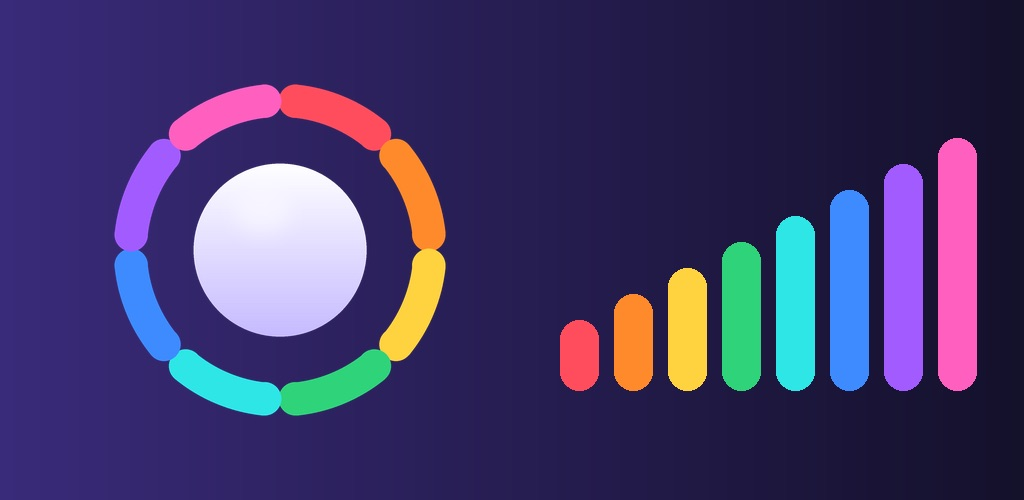
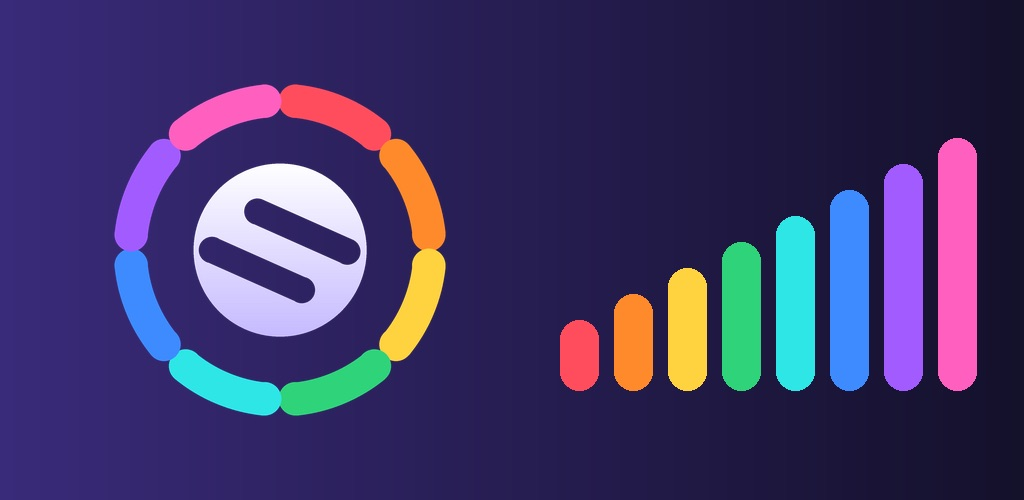
Put the rush streaks in the site's mark
The icon's centre was a plain disc that said nothing. It now carries two
speed streaks, cut out so the background shows through — the same mark the
launcher icon and the in-game logo use, from mark_path_data() in
tool/generate_icons.py.

Screenshots and the share image are re-exported from the framed store
images rather than the bare screen captures.

Changed region(s): [[0.2188, 0.39, 0.375, 0.54], [0.1875, 0.48, 0.3125, 0.6]]

diff --git a/privacy-policy.html b/privacy-policy.html
@@ -11,7 +11,7 @@
 
 <header>
   <div class="wrap bar">
-    <a class="brand" href="/"><svg width="26" height="26" viewBox="0 0 100 100" aria-hidden="true"><g fill="none" stroke-width="10" stroke-linecap="round"><path d="M50 8a42 42 0 0 1 27 10" stroke="#FF4D5E"/><path d="M83 24a42 42 0 0 1 9 20" stroke="#FF8A2B"/><path d="M92 55a42 42 0 0 1-9 20" stroke="#FFD23F"/><path d="M77 82a42 42 0 0 1-21 9" stroke="#2FD37A"/><path d="M44 91a42 42 0 0 1-21-9" stroke="#2EE6E6"/><path d="M17 75a42 42 0 0 1-9-20" stroke="#3D8BFF"/><path d="M8 44a42 42 0 0 1 9-20" stroke="#A25BFF"/><path d="M23 18A42 42 0 0 1 50 8" stroke="#FF5FBF"/></g><circle cx="50" cy="50" r="24" fill="#EFEAFF"/></svg> Hue Rush</a>
+    <a class="brand" href="/"><svg width="26" height="26" viewBox="0 0 100 100" aria-hidden="true"><g fill="none" stroke-width="10" stroke-linecap="round"><path d="M50 8a42 42 0 0 1 27 10" stroke="#FF4D5E"/><path d="M83 24a42 42 0 0 1 9 20" stroke="#FF8A2B"/><path d="M92 55a42 42 0 0 1-9 20" stroke="#FFD23F"/><path d="M77 82a42 42 0 0 1-21 9" stroke="#2FD37A"/><path d="M44 91a42 42 0 0 1-21-9" stroke="#2EE6E6"/><path d="M17 75a42 42 0 0 1-9-20" stroke="#3D8BFF"/><path d="M8 44a42 42 0 0 1 9-20" stroke="#A25BFF"/><path d="M23 18A42 42 0 0 1 50 8" stroke="#FF5FBF"/></g><path fill="#EFEAFF" fill-rule="evenodd" d="M26.00,50.00 a24.00,24.00 0 1,0 48.00,0 a24.00,24.00 0 1,0 -48.00,0 Z M39.33,50.81 L64.32,39.68 A3.60,3.60 0 0,0 61.39,33.11 L36.40,44.23 A3.60,3.60 0 0,0 39.33,50.81 Z M38.80,67.33 L63.80,56.20 A3.60,3.60 0 0,0 60.87,49.63 L35.87,60.76 A3.60,3.60 0 0,0 38.80,67.33 Z"/></svg> Hue Rush</a>
     <nav>
       <a href="privacy-policy.html">Privacy policy</a>
       <a href="terms.html">Terms</a>

diff --git a/terms.html b/terms.html
@@ -11,7 +11,7 @@
 
 <header>
   <div class="wrap bar">
-    <a class="brand" href="/"><svg width="26" height="26" viewBox="0 0 100 100" aria-hidden="true"><g fill="none" stroke-width="10" stroke-linecap="round"><path d="M50 8a42 42 0 0 1 27 10" stroke="#FF4D5E"/><path d="M83 24a42 42 0 0 1 9 20" stroke="#FF8A2B"/><path d="M92 55a42 42 0 0 1-9 20" stroke="#FFD23F"/><path d="M77 82a42 42 0 0 1-21 9" stroke="#2FD37A"/><path d="M44 91a42 42 0 0 1-21-9" stroke="#2EE6E6"/><path d="M17 75a42 42 0 0 1-9-20" stroke="#3D8BFF"/><path d="M8 44a42 42 0 0 1 9-20" stroke="#A25BFF"/><path d="M23 18A42 42 0 0 1 50 8" stroke="#FF5FBF"/></g><circle cx="50" cy="50" r="24" fill="#EFEAFF"/></svg> Hue Rush</a>
+    <a class="brand" href="/"><svg width="26" height="26" viewBox="0 0 100 100" aria-hidden="true"><g fill="none" stroke-width="10" stroke-linecap="round"><path d="M50 8a42 42 0 0 1 27 10" stroke="#FF4D5E"/><path d="M83 24a42 42 0 0 1 9 20" stroke="#FF8A2B"/><path d="M92 55a42 42 0 0 1-9 20" stroke="#FFD23F"/><path d="M77 82a42 42 0 0 1-21 9" stroke="#2FD37A"/><path d="M44 91a42 42 0 0 1-21-9" stroke="#2EE6E6"/><path d="M17 75a42 42 0 0 1-9-20" stroke="#3D8BFF"/><path d="M8 44a42 42 0 0 1 9-20" stroke="#A25BFF"/><path d="M23 18A42 42 0 0 1 50 8" stroke="#FF5FBF"/></g><path fill="#EFEAFF" fill-rule="evenodd" d="M26.00,50.00 a24.00,24.00 0 1,0 48.00,0 a24.00,24.00 0 1,0 -48.00,0 Z M39.33,50.81 L64.32,39.68 A3.60,3.60 0 0,0 61.39,33.11 L36.40,44.23 A3.60,3.60 0 0,0 39.33,50.81 Z M38.80,67.33 L63.80,56.20 A3.60,3.60 0 0,0 60.87,49.63 L35.87,60.76 A3.60,3.60 0 0,0 38.80,67.33 Z"/></svg> Hue Rush</a>
     <nav>
       <a href="privacy-policy.html">Privacy policy</a>
       <a href="terms.html">Terms</a>

diff --git a/index.html b/index.html
@@ -29,7 +29,9 @@
           <path d="M8 44a42 42 0 0 1 9-20" stroke="#A25BFF"/>
           <path d="M23 18A42 42 0 0 1 50 8" stroke="#FF5FBF"/>
         </g>
-        <circle cx="50" cy="50" r="24" fill="#EFEAFF"/>
+        <!-- Disc with two speed streaks punched out; path data comes
+             from mark_path_data() in tool/generate_icons.py. -->
+        <path d="M26.00,50.00 a24.00,24.00 0 1,0 48.00,0 a24.00,24.00 0 1,0 -48.00,0 Z M39.33,50.81 L64.32,39.68 A3.60,3.60 0 0,0 61.39,33.11 L36.40,44.23 A3.60,3.60 0 0,0 39.33,50.81 Z M38.80,67.33 L63.80,56.20 A3.60,3.60 0 0,0 60.87,49.63 L35.87,60.76 A3.60,3.60 0 0,0 38.80,67.33 Z" fill="#EFEAFF" fill-rule="evenodd"/>
       </svg>
       Hue Rush
     </a>
